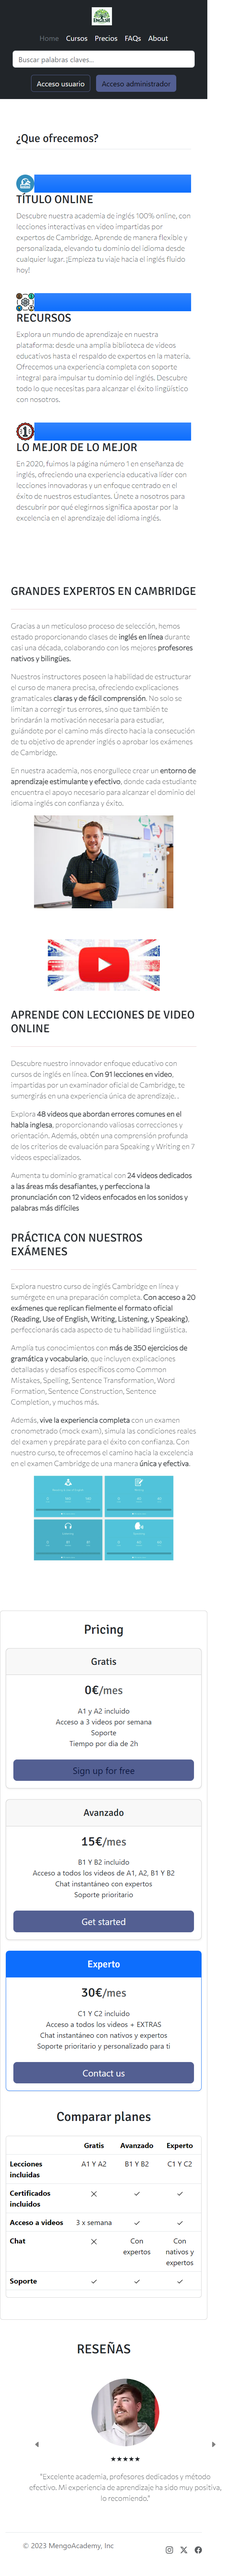
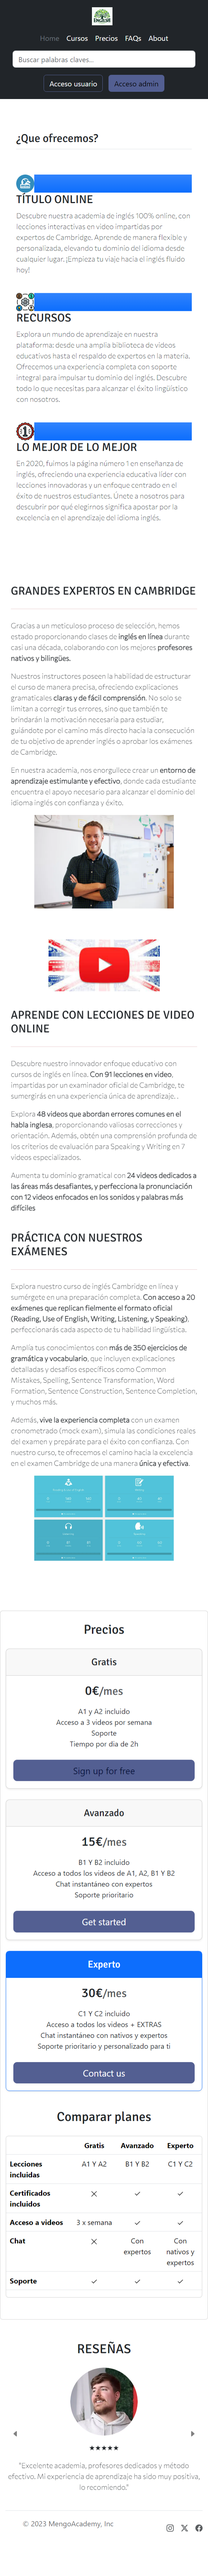
repasoProyecto(20-11-23)

diff --git a/index.html b/index.html
@@ -17,8 +17,13 @@
     href="https://fonts.googleapis.com/css2?family=Commissioner:wght@200&family=PT+Serif:ital@1&family=Roboto+Condensed&display=swap"
     rel="stylesheet">
 
+  <!-- Icono del head -->
+  <link rel="icon" href="https://i.postimg.cc/PJwRr3CC/logo.jpg" type="image/png">
+
+  <!-- Título de la página -->
   <title>PlantillaBoostrap</title>
 
+  <!-- CSS adicional -->
   <style>
     .valoracion-container {
       display: flex;
@@ -82,38 +87,40 @@
 
   <!-- HEADER NAVBAR -->
   <header class="p-3 bg-dark text-white">
-    <div class="container">
-      <div class="d-flex flex-wrap align-items-center justify-content-center justify-content-lg-start">
-        <a href="/" class="d-flex align-items-center mb-2 mb-lg-0 text-white text-decoration-none">
-          <img src="images/logo.jpeg" alt="" width="45" height="40" class="me-2">
-        </a>
+    <nav>
+      <div class="container">
+        <div class="d-flex flex-wrap align-items-center justify-content-center justify-content-lg-start">
+          <a href="/" class="d-flex align-items-center mb-2 mb-lg-0 text-white text-decoration-none">
+            <img src="images/logo.jpeg" alt="" width="45" height="40" class="me-2">
+          </a>
 
-        <ul class="nav col-12 col-lg-auto me-lg-auto mb-2 justify-content-center mb-md-0">
-          <li><a href="#" class="nav-link px-2 text-secondary">Home</a></li>
-          <li><a href="#" class="nav-link px-2 text-white">Cursos</a></li>
-          <li><a href="#" class="nav-link px-2 text-white">Precios</a></li>
-          <li><a href="#" class="nav-link px-2 text-white">FAQs</a></li>
-          <li><a href="#" class="nav-link px-2 text-white">About</a></li>
-        </ul>
+          <ul class="nav col-12 col-lg-auto me-lg-auto mb-2 justify-content-center mb-md-0">
+            <li><a href="#" class="nav-link px-2 text-secondary">Home</a></li>
+            <li><a href="#" class="nav-link px-2 text-white">Cursos</a></li>
+            <li><a href="#" class="nav-link px-2 text-white">Precios</a></li>
+            <li><a href="#" class="nav-link px-2 text-white">FAQs</a></li>
+            <li><a href="#" class="nav-link px-2 text-white">About</a></li>
+          </ul>
 
-        <form class="col-12 col-lg-auto mb-3 mb-lg-0 me-lg-3">
-          <input type="search" class="form-control form-control-dark" placeholder="Buscar palabras claves..."
-            aria-label="Search">
-        </form>
+          <form class="col-12 col-lg-auto mb-3 mb-lg-0 me-lg-3">
+            <input type="search" class="form-control form-control-dark" placeholder="Buscar palabras claves..."
+              aria-label="Search">
+          </form>
 
-        <div class="text-end">
-          <button type="button" class="btn btn-outline-light me-2">Acceso usuario</button>
-          <button type="button" class="btn btn-warning">Acceso administrador</button>
+          <div class="text-end">
+            <button type="button" class="btn btn-outline-light me-2">Acceso usuario</button>
+            <button type="button" class="btn btn-warning">Acceso admin</button>
+          </div>
         </div>
       </div>
-    </div>
+    </nav>
   </header>
 
   <!-- Separación --> </br>
 
   <!-- PARTE QUE OFRECEMOS -->
   <div class="container-fluid">
-    <div class="container px-4 py-5" id="featured-3">
+    <div class="container px-4 py-5">
       <h2 class="pb-2 border-bottom">¿Que ofrecemos?</h2>
       <div class="row g-4 py-5 row-cols-1 row-cols-lg-3">
         <div class="feature col">
@@ -161,15 +168,17 @@
   <div class="container">
     <div class="container-fluid diagonal-container">
       <div class="row">
+        <!-- animate__animated animate__fadeInUp añade una animación de fadeIn, animate_delay-1s le da un retardo de 1 segundos -->
         <div class="col-md-6 text-container animate__animated animate__fadeIn animate__delay-1s">
-          <!-- La clase 'animate__animated animate__fadeIn' añade una animación de fadeIn al cargar -->
           <h2 class="animate__animated animate__bounce">GRANDES EXPERTOS EN CAMBRIDGE</h2>
           <hr class="my-4 colorHr">
+          <!-- animate__animated animate__fadeInUp añade una animación de fadeIn hacia arriba-->
           <p class="animate__animated animate__fadeInUp">Gracias a un meticuloso proceso de selección, hemos estado
             proporcionando clases de <span class="fw-bold">inglés en línea</span> durante
             casi una década, colaborando con los mejores <span class="fw-bold">profesores nativos y bilingües.</span>
           </p>
 
+          <!-- animate__animated animate__fadeInUp añade una animación de fadeIn hacia arriba, animate_delay-1s le da un retardo de 1 segundos -->
           <p class="animate__animated animate__fadeInUp animate__delay-1s">Nuestros instructores poseen la habilidad de
             estructurar el
             curso de manera precisa, ofreciendo
@@ -178,15 +187,17 @@
             que también te brindarán la motivación necesaria para estudiar, guiándote por el camino más directo hacia la
             consecución de tu objetivo de aprender inglés o aprobar los exámenes de Cambridge.</p>
 
+          <!-- animate__animated animate__fadeInUp añade una animación de fadeIn hacia arriba, animate_delay-1s le da un retardo de 1 segundos -->
           <p class="animate__animated animate__fadeInUp animate__delay-1s">En nuestra academia, nos enorgullece crear un
             <span class="fw-bold">entorno de
               aprendizaje estimulante y efectivo</span>, donde cada
             estudiante encuentra el apoyo necesario para alcanzar el dominio del idioma inglés con confianza y éxito.
           </p>
         </div>
+        <!-- animate__animated animate__fadeInRight añade una animación de fadeIn desde la derecha, animate__delay1-s le da un retado de 1 segundo -->
         <div class="col-md-6 image-container animate__animated animate__fadeInRight animate__delay-1s">
           <!-- La clase 'animate__animated animate__fadeInRight' añade una animación de fadeIn desde la derecha al cargar -->
-          <img src="images/profIngles.jpg" alt="Imagen de la academia" class="img-fluid h-75 mx-auto d-block">
+          <img src="images/profIngles.jpg" alt="Profesor de inglés" class="img-fluid h-75 mx-auto d-block">
         </div>
       </div>
     </div>
@@ -197,14 +208,15 @@
   <div class="container">
     <div class="container-fluid diagonal-container">
       <div class="row">
+        <!-- animate__animated animate__fadeInLeft añade una animación de fadeIn desde la izquierda, animate_delay-2s le da un retardo de 2 segundos -->
         <div class="col-md-6 image-container animate__animated animate__fadeInLeft animate__delay-2s">
-          <!-- La clase 'animate__animated animate__fadeInRight' añade una animación de fadeIn desde la derecha al cargar -->
-          <img src="images/inglesVideo.jpeg" alt="Imagen de la academia" class="img-fluid h-75 mx-auto d-block">
+          <img src="images/inglesVideo.jpeg" alt="Imagen video inglés" class="img-fluid h-75 mx-auto d-block">
         </div>
+        <!-- animate__animated animate__fadeI añade una animación de fadeIn, animate_delay-2s le da un retardo de 2 segundos -->
         <div class="col-md-6 text-container animate__animated animate__fadeIn animate__delay-2s">
-          <!-- La clase 'animate__animated animate__fadeIn' añade una animación de fadeIn al cargar -->
-          <h2 class="animate__animated animate__bounce">APRENDE CON LECCIONES DE VIDEO ONLINE</h2>
+          <h2 class="animate__animated">APRENDE CON LECCIONES DE VIDEO ONLINE</h2>
           <hr class="my-4 colorHr">
+          <!-- animate__animated animate__fadeInUp añade una animación de fadeIn hacia arriba, animate_delay-2s le da un retardo de 2 segundos -->
           <p class="animate__animated animate__fadeInUp">Descubre nuestro innovador enfoque educativo con cursos de
             inglés en línea. <span class="fw-bold">Con 91 lecciones en video</span>, impartidas por un examinador
             oficial de Cambridge, te sumergirás
@@ -212,12 +224,14 @@
             .</span>
           </p>
 
+          <!-- animate__animated animate__fadeInUp añade una animación de fadeIn hacia arriba, animate_delay-2s le da un retardo de 2 segundos -->
           <p class="animate__animated animate__fadeInUp animate__delay-2s">
             Explora <span class="fw-bold">48 videos que abordan errores comunes en el habla inglesa</span>,
             proporcionando valiosas correcciones y
             orientación. Además, obtén una comprensión profunda de los criterios de evaluación para Speaking y Writing
             en 7 videos especializados.</p>
 
+          <!-- animate__animated animate__fadeInUp añade una animación de fadeIn hacia arriba, animate_delay-2s le da un retardo de 2 segundos -->
           <p class="animate__animated animate__fadeInUp animate__delay-2s">Aumenta tu dominio gramatical con <span
               class="fw-bold">24 videos
               dedicados a las áreas más desafiantes, y perfecciona la pronunciación con 12 videos enfocados en los
@@ -236,10 +250,12 @@
   <div class="container">
     <div class="container-fluid diagonal-container">
       <div class="row">
+        <!-- animate__animated animate__fadeIn añade una animación de fadeIn -->
         <div class="col-md-6 text-container animate__animated animate__fadeIn animate__delay-3s">
-          <!-- La clase 'animate__animated animate__fadeIn' añade una animación de fadeIn al cargar -->
-          <h2 class="animate__animated animate__bounce">PRÁCTICA CON NUESTROS EXÁMENES</h2>
+          <!--  -->
+          <h2 class="animate__animated">PRÁCTICA CON NUESTROS EXÁMENES</h2>
           <hr class="my-4 colorHr">
+          <!-- animate__animated animate__fadeInUp añade una animación de fadeIn hacia arriba-->
           <p class="animate__animated animate__fadeInUp">Explora nuestro curso de inglés Cambridge en línea y sumérgete
             en una preparación completa. <span class="fw-bold">Con acceso a 20 exámenes que replican fielmente el
               formato oficial (Reading,
@@ -247,6 +263,7 @@
             lingüística.
           </p>
 
+          <!-- animate__animated animate__fadeInUp añade una animación de fadeIn hacia arriba, animate_delay-3s le da un retardo de 3 segundos -->
           <p class="animate__animated animate__fadeInUp animate__delay-3s">Amplía tus conocimientos con <span
               class="fw-bold">más de 350
               ejercicios de gramática y vocabulario</span>, que incluyen explicaciones detalladas y desafíos específicos
@@ -254,6 +271,7 @@
             Common Mistakes, Spelling, Sentence Transformation, Word Formation, Sentence Construction, Sentence
             Completion, y muchos más.</p>
 
+          <!-- animate__animated animate__fadeInUp añade una animación de fadeIn hacia arriba, animate_delay-3s le da un retardo de 3 segundos -->
           <p class="animate__animated animate__fadeInUp animate__delay-3s">Además, <span class="fw-bold">vive la
               experiencia completa</span> con un
             examen cronometrado (mock exam), simula las condiciones reales del examen y prepárate para el éxito con
@@ -261,9 +279,9 @@
             manera <span class="fw-bold">única y efectiva</span>.
           </p>
         </div>
+        <!-- animate__animated animate__fadeInRight añade una animación de fadeIn desde la derecha -->
         <div class="col-md-6 image-container animate__animated animate__fadeInRight animate__delay-3s">
-          <!-- La clase 'animate__animated animate__fadeInRight' añade una animación de fadeIn desde la derecha al cargar -->
-          <img src="images/examenesIngles.jpeg" alt="Imagen de la academia" class="img-fluid h-75 mx-auto d-block">
+          <img src="images/examenesIngles.jpeg" alt="Imagen exámenes ingléss" class="img-fluid h-75 mx-auto d-block">
         </div>
       </div>
     </div>
@@ -276,7 +294,7 @@
   <!-- PARTE DE PRECIOS -->
   <div class="container card">
     </br>
-    <h1 class="display-6 text-center mb-4">Pricing</h1>
+    <h1 class="display-6 text-center mb-4">Precios</h1>
     <div class="row row-cols-1 row-cols-md-3 mb-3 text-center">
       <div class="col">
         <div class="card mb-4 rounded-3 shadow-sm">
@@ -426,7 +444,7 @@
 
   <!-- PARTE DE RESEÑAS -->
   <h1 class="display-6 text-center mb-4">RESEÑAS</h1>
-  <div id="valoracionCarousel" class="carousel slide container m-5" data-ride="carousel" data-interval="false">
+  <div id="valoracionCarousel" class="carousel slide container" data-ride="carousel" data-interval="false">
     <div class="carousel-inner">
 
       <!-- RESEÑA 1 -->
